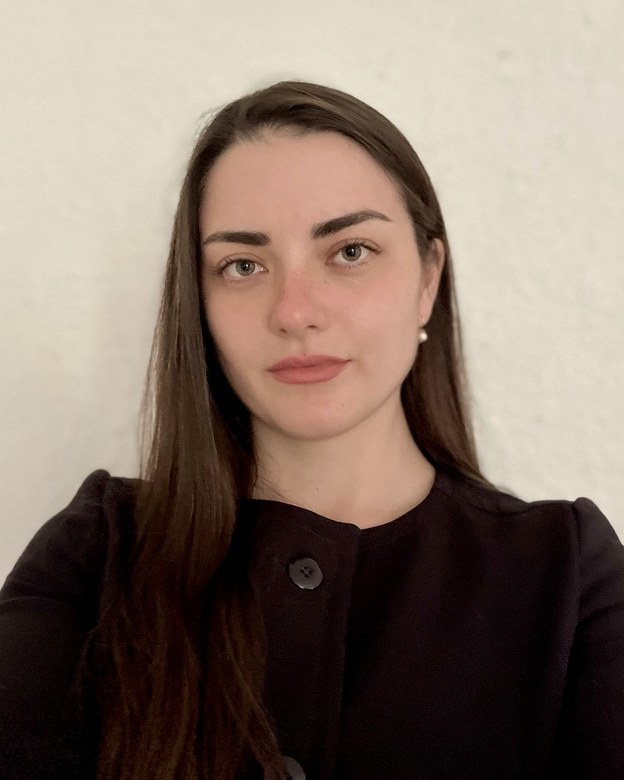
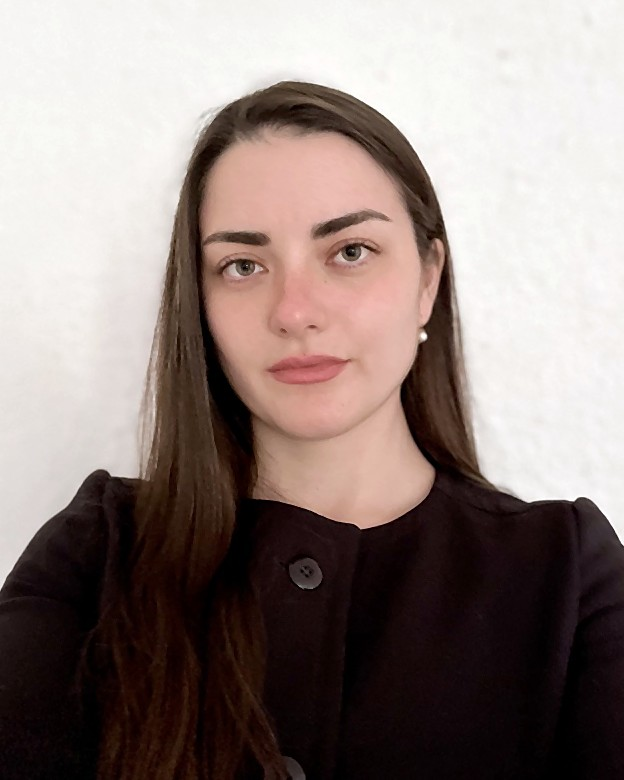
Add the B2B-to-luxury bridge section, refine roles and expertise
Explain what carries over from technical B2B before the work; name
Château Landery and the role there; state roles on the case study and
the Industry Insights campaign; drop photography, the honours line and
Alice Bakery; white-balance the portrait.

diff --git a/index.html b/index.html
@@ -235,6 +235,15 @@
   .interest-img img { width: 100%; height: 100%; object-fit: cover; }
   .interest figcaption { margin-top: 8px; text-align: center; font-size: 10px; letter-spacing: 0.16em; text-transform: uppercase; color: var(--ink-soft); }
 
+  /* B2B to luxury bridges: title, then industry and luxury side by side */
+  .bridges { max-width: 1000px; margin: 0 auto; }
+  .bridge { display: grid; gap: 10px 40px; padding: 26px 0; border-top: 1px solid var(--rule); }
+  .bridge:last-child { border-bottom: 1px solid var(--rule); }
+  .bridge h3 { font-family: var(--serif); font-weight: 400; font-size: 1.4rem; line-height: 1.25; margin: 0; }
+  .bridge-col p { margin: 0; font-size: 14.5px; }
+  .bridge-label { font-size: 10.5px !important; letter-spacing: 0.16em; text-transform: uppercase; color: var(--ink-soft); margin-bottom: 6px !important; }
+  @media (min-width: 880px) { .bridge { grid-template-columns: 0.9fr 1fr 1fr; align-items: start; } }
+
   /* ---------- Selected work: large image, centred text below ---------- */
   .plate { padding: 0 0 clamp(96px, 12vw, 144px); }
   .plate:last-child { padding-bottom: 0; }
@@ -381,8 +390,9 @@
       <nav aria-label="Index">
         <ol>
           <li><a href="#avant-propos"><span data-l="fr">Avant-propos</span><span data-l="en">Foreword</span></a></li>
+          <li><a href="#transposition"><span data-l="fr">Du B2B au luxe</span><span data-l="en">From B2B to luxury</span></a></li>
           <li><a href="#realisations"><span data-l="fr">Réalisations</span><span data-l="en">Selected work</span></a></li>
-          <li><a href="#chateau"><span data-l="fr">Le château</span><span data-l="en">The château</span></a></li>
+          <li><a href="#chateau">Château Landery</a></li>
           <li><a href="#travaux"><span data-l="fr">Travaux de master</span><span data-l="en">Master's work</span></a></li>
           <li><a href="#methode"><span data-l="fr">Méthode</span><span data-l="en">Method</span></a></li>
           <li><a href="#savoir-faire"><span data-l="fr">Savoir-faire</span><span data-l="en">Expertise</span></a></li>
@@ -497,6 +507,46 @@
   </section>
 
   <!-- ============================================================
+       FROM TECHNICAL B2B TO LUXURY: how the background carries over,
+       read before the work itself.
+       ============================================================ -->
+  <section class="chapter" id="transposition">
+    <div class="wrap">
+      <div class="chapter-head reveal">
+        <h2><span data-l="fr">Du B2B technique au luxe</span><span data-l="en">From technical B2B to luxury</span></h2>
+        <p><span data-l="fr">Ce qui se transpose, concrètement.</span><span data-l="en">What carries over, specifically.</span></p>
+      </div>
+      <div class="bridges">
+        <div class="bridge reveal">
+          <h3><span data-l="fr">Défendre un prix premium</span><span data-l="en">Defending a premium price</span></h3>
+          <div class="bridge-col"><p class="bridge-label"><span data-l="fr">Dans l'industrie</span><span data-l="en">In industry</span></p><p><span data-l="fr">Justifier un écrou plus cher par la sécurité et la durabilité qu'il garantit, preuves à l'appui.</span><span data-l="en">Justifying a more expensive nut by the safety and durability it guarantees, with proof.</span></p></div>
+          <div class="bridge-col"><p class="bridge-label"><span data-l="fr">Dans le luxe</span><span data-l="en">In luxury</span></p><p><span data-l="fr">Justifier la valeur par le savoir-faire, la matière et l'exigence, jamais par la remise.</span><span data-l="en">Justifying value through craftsmanship, materials and standards, never through discounts.</span></p></div>
+        </div>
+        <div class="bridge reveal">
+          <h3><span data-l="fr">Rendre l'exigence lisible</span><span data-l="en">Making excellence legible</span></h3>
+          <div class="bridge-col"><p class="bridge-label"><span data-l="fr">Dans l'industrie</span><span data-l="en">In industry</span></p><p><span data-l="fr">Traduire des fiches techniques en infographies, guides et études de cas que tout acheteur comprend.</span><span data-l="en">Turning technical specs into infographics, guides and case studies any buyer understands.</span></p></div>
+          <div class="bridge-col"><p class="bridge-label"><span data-l="fr">Dans le luxe</span><span data-l="en">In luxury</span></p><p><span data-l="fr">Raconter un produit, sa composition, sa fabrication, son geste, avec la même précision, pour qu'il soit compris et désiré.</span><span data-l="en">Telling a product's story, its composition, its making, its gesture, with the same precision, so it is understood and desired.</span></p></div>
+        </div>
+        <div class="bridge reveal">
+          <h3><span data-l="fr">Connaître chaque client</span><span data-l="en">Knowing every client</span></h3>
+          <div class="bridge-col"><p class="bridge-label"><span data-l="fr">Dans l'industrie</span><span data-l="en">In industry</span></p><p><span data-l="fr">Peu de clients, exigeants, suivis dans la durée grâce à un CRM tenu avec rigueur.</span><span data-l="en">Few, demanding clients, followed over time through a rigorously kept CRM.</span></p></div>
+          <div class="bridge-col"><p class="bridge-label"><span data-l="fr">Dans le luxe</span><span data-l="en">In luxury</span></p><p><span data-l="fr">Le clienteling&nbsp;: une relation personnelle et suivie, nourrie par une donnée client juste.</span><span data-l="en">Clienteling: a personal, ongoing relationship, fed by accurate client data.</span></p></div>
+        </div>
+        <div class="bridge reveal">
+          <h3><span data-l="fr">Tenir une identité</span><span data-l="en">Holding one identity</span></h3>
+          <div class="bridge-col"><p class="bridge-label"><span data-l="fr">Dans l'industrie</span><span data-l="en">In industry</span></p><p><span data-l="fr">Une même marque du catalogue au stand de salon, jusqu'à LinkedIn.</span><span data-l="en">One brand from the catalogue to the trade show stand, all the way to LinkedIn.</span></p></div>
+          <div class="bridge-col"><p class="bridge-label"><span data-l="fr">Dans le luxe</span><span data-l="en">In luxury</span></p><p><span data-l="fr">Une même maison de la boutique au site, des événements aux réseaux sociaux.</span><span data-l="en">One house from the boutique to the website, from events to social media.</span></p></div>
+        </div>
+        <div class="bridge reveal">
+          <h3><span data-l="fr">Comprendre le consommateur</span><span data-l="en">Understanding the consumer</span></h3>
+          <div class="bridge-col"><p class="bridge-label"><span data-l="fr">Au master</span><span data-l="en">At master's level</span></p><p><span data-l="fr">Un mémoire sur la cosmétique de luxe, un laboratoire de neuromarketing, l'analyse de la clientèle d'une marque de mode.</span><span data-l="en">A thesis on luxury cosmetics, a neuromarketing lab, a client-base analysis for a fashion brand.</span></p></div>
+          <div class="bridge-col"><p class="bridge-label"><span data-l="fr">Dans le luxe</span><span data-l="en">In luxury</span></p><p><span data-l="fr">Des décisions fondées sur ce qui crée la confiance et le désir, pas sur l'intuition seule.</span><span data-l="en">Decisions grounded in what builds trust and desire, not intuition alone.</span></p></div>
+        </div>
+      </div>
+    </div>
+  </section>
+
+  <!-- ============================================================
        II. PLATES: selected work, each with an exhibition label.
        ============================================================ -->
   <section class="chapter" id="realisations">
@@ -523,9 +573,9 @@
               <dt>Provenance</dt>
               <dd><span data-l="fr">B2B industriel, client anonymisé</span><span data-l="en">Industrial B2B, client anonymised</span></dd>
               <dt><span data-l="fr">Rôle</span><span data-l="en">Role</span></dt>
-              <dd><mark class="todo">[TODO : votre rôle exact]</mark></dd>
+              <dd><span data-l="fr">Assistante commerciale et marketing&nbsp;: conception de l'étude de cas, et relais entre le vice-président et le rédacteur externe pour transmettre corrections et modifications.</span><span data-l="en">Marketing and sales assistant: designed the case study, and acted as the go-between for the VP and the outsourced copywriter, relaying edits and changes.</span></dd>
               <dt>Notes</dt>
-              <dd><span data-l="fr">Le prix premium défendu par la preuve, pas par la promesse.</span><span data-l="en">A premium price defended with proof, not promises.</span></dd>
+              <dd><span data-l="fr">Devenue le modèle d'étude de cas de l'entreprise, utilisée sur les salons et en ligne. Le prix premium défendu par la preuve, pas par la promesse.</span><span data-l="en">Became the company's case study template, used at trade shows and online. A premium price defended with proof, not promises.</span></dd>
             </dl>
             <a class="plate-link" data-l="fr" href="FR_Cover%20Board%20Case%20Study%202021.pdf" target="_blank" rel="noopener">Lire l'étude de cas (PDF) →</a>
             <a class="plate-link" data-l="en" href="Cover%20Board%20Case%20Study%202021.pdf" target="_blank" rel="noopener">Read the case study (PDF) →</a>
@@ -595,11 +645,11 @@
           <div class="plate-body">
             <p class="plate-no">N° 04</p>
             <h3><span data-l="fr">Rendre l'expertise lisible</span><span data-l="en">Making expertise legible</span></h3>
-            <p data-l="fr">Une stratégie de contenu LinkedIn bâtie de zéro&nbsp;: tableaux de bord, suivi des performances, et des formats courts qui traduisent l'information technique en infographies claires. Sujets et formats testés pour comprendre ce qui touche vraiment.</p>
-            <p data-l="en">A LinkedIn content strategy built from the ground up: dashboards, performance tracking, and short formats that turn technical information into clear infographics. Topics and formats tested to learn what actually resonates.</p>
+            <p data-l="fr">«&nbsp;Industry Insights&nbsp;», une campagne LinkedIn bâtie de zéro pour éduquer le marché, installer une parole d'expert et inciter les collaborateurs à publier eux-mêmes. Des formats courts qui traduisent l'information technique en infographies claires, suivis par tableaux de bord pour comprendre ce qui touche vraiment.</p>
+            <p data-l="en">“Industry Insights”, a LinkedIn campaign built from the ground up to educate the market, establish thought leadership and encourage employees to post themselves. Short formats that turn technical information into clear infographics, tracked with dashboards to learn what actually resonates.</p>
             <dl class="label">
               <dt><span data-l="fr">Médium</span><span data-l="en">Medium</span></dt>
-              <dd><span data-l="fr">Contenu éditorial et infographies</span><span data-l="en">Editorial content and infographics</span></dd>
+              <dd><span data-l="fr">Campagne LinkedIn «&nbsp;Industry Insights&nbsp;», infographies</span><span data-l="en">“Industry Insights” LinkedIn campaign, infographics</span></dd>
               <dt>Provenance</dt>
               <dd><span data-l="fr">B2B industriel</span><span data-l="en">Industrial B2B</span></dd>
               <dt>Notes</dt>
@@ -615,15 +665,13 @@
           <div class="plate-body">
             <p class="plate-no">N° 05</p>
             <h3><span data-l="fr">Une marque cohérente, du catalogue au salon</span><span data-l="en">One consistent brand, from catalogue to trade show</span></h3>
-            <p data-l="fr">Catalogues, guides produits, bannières, stands et fonds de salon, publicités presse, vidéos, photographie d'équipe et d'événements&nbsp;: une identité tenue sur chaque format, en print comme en digital.</p>
-            <p data-l="en">Catalogues, product guides, banners, trade show stands and backdrops, print ads, videos, team and event photography: one identity held across every format, print and digital.</p>
+            <p data-l="fr">Catalogues, guides produits, bannières, stands et fonds de salon, publicités presse et vidéos&nbsp;: une identité tenue sur chaque format, en print comme en digital.</p>
+            <p data-l="en">Catalogues, product guides, banners, trade show stands and backdrops, print ads and videos: one identity held across every format, print and digital.</p>
             <dl class="label">
               <dt><span data-l="fr">Médium</span><span data-l="en">Medium</span></dt>
-              <dd><span data-l="fr">Supports print et digital, photographie</span><span data-l="en">Print and digital collateral, photography</span></dd>
+              <dd><span data-l="fr">Supports print et digital, diffusés aussi sur LinkedIn</span><span data-l="en">Print and digital collateral, also published on LinkedIn</span></dd>
               <dt>Provenance</dt>
               <dd><span data-l="fr">B2B industriel</span><span data-l="en">Industrial B2B</span></dd>
-              <dt><span data-l="fr">Photographies</span><span data-l="en">Photographs</span></dt>
-              <dd><mark class="todo">[TODO : vos photographies d'équipe et d'événements]</mark></dd>
             </dl>
           </div>
         </article>
@@ -676,10 +724,10 @@
   <section class="chapter" id="chateau">
     <div class="wrap">
       <div class="chapter-head reveal">
-        <h2><span data-l="fr">Le château</span><span data-l="en">The château</span></h2>
-        <p><span data-l="fr">Gîte, projet familial, été 2025.</span><span data-l="en">Holiday rental, family project, summer 2025.</span> <mark class="todo">[TODO : nom du château, dates, votre rôle en une phrase]</mark></p>
+        <h2>Château Landery</h2>
+        <p><span data-l="fr">Gîte, projet familial, été 2025. Gestion des clients, prospection et conception des activités.</span><span data-l="en">Holiday rental, family project, summer 2025. Client management, customer outreach and activity curation.</span></p>
       </div>
-      <div class="image-grid" aria-label="Le château en images">
+      <div class="image-grid" aria-label="Château Landery en images">
         <figure class="tile reveal"><img src="img/chateau-01.webp" width="900" height="1200" loading="lazy" decoding="async" alt="La façade du château sous un ciel bleu"></figure>
         <figure class="tile reveal"><img src="img/chateau-02.webp" width="900" height="1200" loading="lazy" decoding="async" alt="Le chemin menant à la tour, dans la lumière d&#x27;automne"></figure>
         <figure class="tile reveal"><img src="img/chateau-03.webp" width="900" height="1200" loading="lazy" decoding="async" alt="Un chat blanc devant une porte en fer forgé"></figure>
@@ -710,7 +758,7 @@
 
         <article class="work reveal">
           <img src="img/master-neuro-lab.webp" width="1000" height="548" loading="lazy" decoding="async" alt="Analyse en Python de l'asymétrie alpha frontale par condition publicitaire, dans Google Colab">
-          <p class="meta">Consumer Neuroscience and Bioscience Lab · <mark class="todo">[TODO : individuel ou en groupe]</mark></p>
+          <p class="meta">Consumer Neuroscience and Bioscience Lab · <span data-l="fr">en groupe</span><span data-l="en">group work</span></p>
           <h3><span data-l="fr">Ce que le cerveau dit d'une publicité</span><span data-l="en">What the brain says about an ad</span></h3>
           <p data-l="fr">Une expérience sous PsychoPy présente trois conditions publicitaires (une e-cigarette présentée comme «&nbsp;cool&nbsp;», des avertissements sanitaires, une cigarette classique) pendant l'enregistrement de l'activité cérébrale (EEG) et du rythme cardiaque (ECG). Puis l'analyse en Python&nbsp;: appréciation déclarée, rythme cardiaque moyen et asymétrie alpha frontale, un indicateur de motivation d'approche.</p>
           <p data-l="en">A PsychoPy experiment shows three ad conditions (an e-cigarette framed as “cool”, health warnings, a regular cigarette) while brain activity (EEG) and heart rate (ECG) are recorded. Then the analysis in Python: stated liking, average heart rate and frontal alpha asymmetry, an indicator of approach motivation.</p>
@@ -884,25 +932,25 @@
         <h2><span data-l="fr">Savoir-faire</span><span data-l="en">Expertise</span></h2>
       </div>
       <p class="precision-note reveal">
-        <span data-l="fr">J'ai appris la précision dans les systèmes de fixation pour le ferroviaire, l'énergie, les mines et l'aérospatiale, où une spécification mal comprise peut arrêter un chantier. Vérifier chaque chiffre, expliquer simplement un produit exigeant, tenir une marque cohérente sur chaque support&nbsp;: c'est ce que j'emporte avec moi.</span>
-        <span data-l="en">I learned precision in fastening systems for rail, energy, mining and aerospace, where a misunderstood specification can stop a worksite. Checking every figure, explaining a demanding product simply, holding a brand steady across every medium: that is what I bring with me.</span>
+        <span data-l="fr">Défendre un produit haut de gamme par la preuve m'a appris la rigueur&nbsp;: vérifier chaque chiffre, rendre un produit exigeant simple à comprendre, tenir une identité cohérente sur chaque support. Mon master y a ajouté la lecture du consommateur&nbsp;: ce qui crée la confiance, le désir et la fidélité.</span>
+        <span data-l="en">Defending a high-end product with proof taught me rigour: checking every figure, making a demanding product simple to understand, keeping one identity across every medium. My master's added a reading of the consumer: what builds trust, desire and loyalty.</span>
       </p>
 
       <div class="skill-groups">
         <div class="skill-group reveal">
           <h3><span data-l="fr">Marque &amp; contenu</span><span data-l="en">Brand &amp; content</span></h3>
-          <ul data-l="fr"><li>Stratégie de contenu</li><li>Récit produit et rédaction éditoriale</li><li>Supports print et digital</li><li>Réseaux sociaux en organique</li><li>Traduction et adaptation FR / EN</li></ul>
-          <ul data-l="en"><li>Content strategy</li><li>Product storytelling and editorial writing</li><li>Print and digital collateral</li><li>Organic social media</li><li>FR / EN translation and adaptation</li></ul>
+          <ul data-l="fr"><li>Récit de marque et storytelling produit</li><li>Contenu éditorial, print et digital</li><li>Réseaux sociaux et prise de parole d'expert</li><li>Événements et lancements</li><li>Traduction et adaptation FR / EN</li></ul>
+          <ul data-l="en"><li>Brand and product storytelling</li><li>Editorial content, print and digital</li><li>Social media and thought leadership</li><li>Events and launches</li><li>FR / EN translation and adaptation</li></ul>
         </div>
         <div class="skill-group reveal">
           <h3>CRM &amp; clienteling</h3>
-          <ul data-l="fr"><li>Choix, migration et gestion de CRM</li><li>Segmentation et fidélité</li><li>Parcours client omnicanal</li><li>Rétention et valeur vie client</li><li>Pipedrive, Salesforce, HubSpot (certifications)</li></ul>
-          <ul data-l="en"><li>CRM selection, migration and management</li><li>Segmentation and loyalty</li><li>Omnichannel customer journeys</li><li>Retention and lifetime value</li><li>Pipedrive, Salesforce, HubSpot (certifications)</li></ul>
+          <ul data-l="fr"><li>Connaissance et segmentation client</li><li>Fidélisation et valeur vie client</li><li>Parcours client omnicanal</li><li>Adoption d'un CRM par les équipes</li><li>Salesforce, Pipedrive, HubSpot (certifications)</li></ul>
+          <ul data-l="en"><li>Client knowledge and segmentation</li><li>Loyalty and lifetime value</li><li>Omnichannel client journeys</li><li>Getting teams to adopt a CRM</li><li>Salesforce, Pipedrive, HubSpot (certifications)</li></ul>
         </div>
         <div class="skill-group reveal">
-          <h3><span data-l="fr">Analyse</span><span data-l="en">Analytics</span></h3>
-          <ul data-l="fr"><li>Enquêtes (Google Forms) et analyse qualitative (méthode Gioia)</li><li>Neuromarketing&nbsp;: EEG, ECG, PsychoPy</li><li>Python sous Google Colab (régression, clustering)</li><li>SQL, Excel et Power BI</li><li>GA4 et Looker Studio</li><li>Écoute sociale&nbsp;: Brand24, SimilarWeb, Google Trends</li></ul>
-          <ul data-l="en"><li>Surveys (Google Forms) and qualitative analysis (Gioia method)</li><li>Neuromarketing: EEG, ECG, PsychoPy</li><li>Python in Google Colab (regression, clustering)</li><li>SQL, Excel and Power BI</li><li>GA4 and Looker Studio</li><li>Social listening: Brand24, SimilarWeb, Google Trends</li></ul>
+          <h3><span data-l="fr">Insight consommateur</span><span data-l="en">Consumer insight</span></h3>
+          <ul data-l="fr"><li>Enquêtes et analyse qualitative (méthode Gioia)</li><li>Neuromarketing&nbsp;: EEG, ECG, PsychoPy</li><li>Études de marché et veille concurrentielle</li><li>Écoute sociale&nbsp;: Brand24, SimilarWeb, Google Trends</li><li>Python, SQL, Excel, Power BI</li><li>GA4 et Looker Studio</li></ul>
+          <ul data-l="en"><li>Surveys and qualitative analysis (Gioia method)</li><li>Neuromarketing: EEG, ECG, PsychoPy</li><li>Market research and competitive intelligence</li><li>Social listening: Brand24, SimilarWeb, Google Trends</li><li>Python, SQL, Excel, Power BI</li><li>GA4 and Looker Studio</li></ul>
         </div>
         <div class="skill-group reveal">
           <h3><span data-l="fr">Langues &amp; outils</span><span data-l="en">Languages &amp; tools</span></h3>
@@ -926,7 +974,7 @@
           <span class="year">2024</span>
           <div>
             <h3>Master in Marketing Management, Omnichannel and Consumer Analytics</h3>
-            <p>POLIMI Graduate School of Management, Milan · <span data-l="fr">mention très bien</span><span data-l="en">with highest honours</span></p>
+            <p>POLIMI Graduate School of Management, Milan</p>
           </div>
         </div>
         <div class="entry reveal">
@@ -995,7 +1043,6 @@
         <li><span data-l="fr">Ambassadrice de faculté</span><span data-l="en">Faculty ambassador</span><small>Carleton University</small></li>
         <li><span data-l="fr">Rencontre d'affaires Kazakhstan</span><span data-l="en">Kazakhstan business meeting</span><small>Canada Eurasia Chamber of Commerce</small></li>
         <li><span data-l="fr">Photographe de programme</span><span data-l="en">Programme photographer</span><small>McMichel Art Gallery <mark class="todo">[TODO : orthographe exacte]</mark></small></li>
-        <li><span data-l="fr">Coordinatrice d'événements communautaires</span><span data-l="en">Community event coordinator</span><small>Alice Bakery</small></li>
       </ul>
     </div>
   </section>
